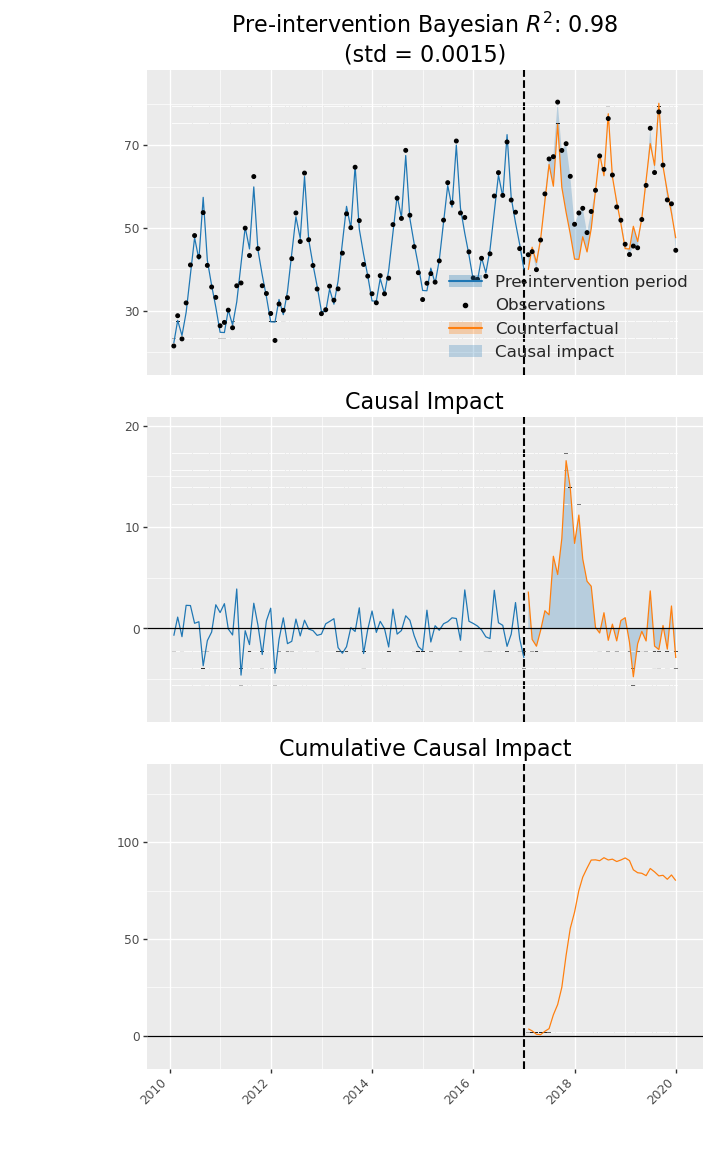
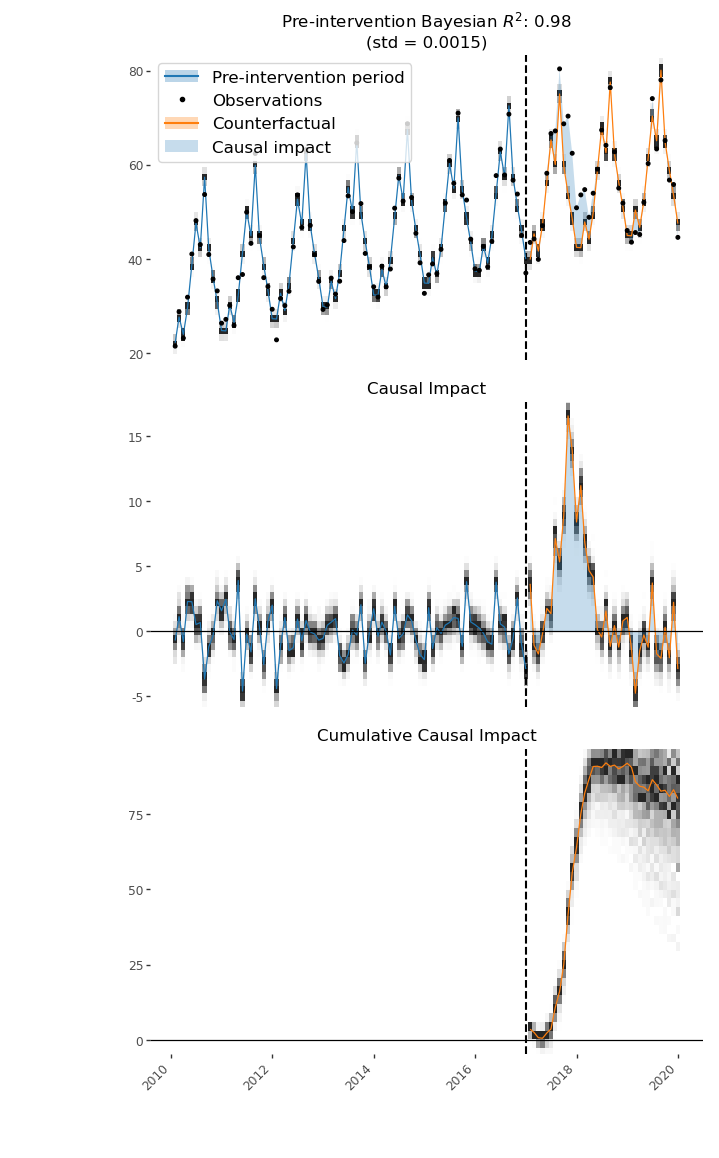
Fix ITS histogram heatmap rendering on plotnine path (#988)
geom_tile used 1-unit-tall cells on the data y-scale, so the density layer looked like thin dashes. Use plotnine for layout and overlay the same matplotlib pcolormesh path as the baseline; keep histogram_tile_df rect bounds for later experiments.

diff --git a/causalpy/experiments/interrupted_time_series.py b/causalpy/experiments/interrupted_time_series.py
@@ -29,17 +29,16 @@ from patsy import build_design_matrices, dmatrices
 from plotnine import (
     aes,
     element_blank,
+    element_rect,
     facet_wrap,
     geom_hline,
     geom_line,
     geom_point,
     geom_ribbon,
-    geom_tile,
     ggplot,
     guides,
     labs,
     scale_color_manual,
-    scale_fill_gradient,
     scale_fill_manual,
     theme,
 )
@@ -50,10 +49,10 @@ from causalpy.custom_exceptions import BadIndexException
 from causalpy.date_utils import _combine_datetime_indices, format_date_axes
 from causalpy.experiments.model_adapter import build_coords
 from causalpy.plot_utils import (
+    _plot_histogram,
     _PlotXYStyle,
     concat_x_y,
     get_hdi_to_df,
-    histogram_tile_df,
     plot_xY,
 )
 from causalpy.pymc_models import LinearRegression, PyMCModel
@@ -644,7 +643,7 @@ class InterruptedTimeSeries(BaseExperiment):
             How posterior uncertainty is rendered. Defaults to ``"ribbon"``
             (mean + credible band). ``"spaghetti"`` draws posterior sample
             lines via plotnine. ``"histogram"`` renders a density heatmap via
-            plotnine ``geom_tile`` (Greys scale).
+            plotnine layout with a matplotlib ``pcolormesh`` density layer.
         ci_kind : {"hdi", "eti"}, optional
             Credible interval type when ``kind="ribbon"``. Defaults to
             ``"hdi"``.
@@ -1167,7 +1166,7 @@ class InterruptedTimeSeries(BaseExperiment):
                 ]
             )
 
-        tile_df = None
+        hist_layers: list[tuple[Any, xr.DataArray, dict[str, Any]]] | None = None
         if kind == "histogram":
 
             def _isel_treated(da):
@@ -1186,20 +1185,15 @@ class InterruptedTimeSeries(BaseExperiment):
                 self.datapost.index,
                 _isel_treated(self.post_impact),
             )
-            tile_df = pd.concat(
-                [
-                    histogram_tile_df(
-                        x_top, mu_top, series="Posterior density", panel=top
-                    ),
-                    histogram_tile_df(x_mid, impact_mid, series="pre", panel=mid),
-                    histogram_tile_df(
-                        self.datapost.index,
-                        _isel_treated(self.post_impact_cumulative),
-                        series="post",
-                        panel=bot,
-                    ),
-                ]
-            )
+            hist_layers = [
+                (x_top, mu_top, {}),
+                (x_mid, impact_mid, {"color": "C0"}),
+                (
+                    self.datapost.index,
+                    _isel_treated(self.post_impact_cumulative),
+                    {"color": "C1"},
+                ),
+            ]
 
         obs = pd.concat(
             [
@@ -1241,8 +1235,6 @@ class InterruptedTimeSeries(BaseExperiment):
         frames = [bands, obs] + ([shade_df] if shade_df is not None else [])
         if spaghetti_df is not None:
             frames.append(spaghetti_df)
-        if tile_df is not None:
-            frames.append(tile_df)
         for frame in frames:
             frame["panel"] = pd.Categorical(
                 frame["panel"], categories=panels, ordered=True
@@ -1268,16 +1260,7 @@ class InterruptedTimeSeries(BaseExperiment):
                 alpha=0.25,
             )
         if kind == "histogram":
-            p = (
-                p
-                + geom_tile(
-                    tile_df,
-                    aes("obs_ind", "y", fill="density"),
-                    alpha=0.85,
-                    show_legend=False,
-                )
-                + geom_line(bands, aes("obs_ind", "mu", color="series"))
-            )
+            p = p + geom_line(bands, aes("obs_ind", "mu", color="series"))
         elif kind == "spaghetti":
             p = (
                 p
@@ -1307,11 +1290,7 @@ class InterruptedTimeSeries(BaseExperiment):
             + geom_hline(zero_df, aes(yintercept="yintercept"), color="black")
             + facet_wrap("panel", ncol=1, scales="free_y")
             + scale_color_manual(values=colors, name="")
-            + (
-                scale_fill_gradient(low="white", high="black", limits=(0, 1))
-                if kind == "histogram"
-                else scale_fill_manual(values=colors, name="")
-            )
+            + scale_fill_manual(values=colors, name="")
             + guides(color="none", fill="none")
             + labs(x="", y="")
             # Panel titles come from ax.set_title after .draw() (matches the
@@ -1324,6 +1303,15 @@ class InterruptedTimeSeries(BaseExperiment):
                 figure_size=figsize,
                 panel_spacing_y=0.06,
                 plot_margin_bottom=0.08,
+                **(
+                    {
+                        "panel_background": element_rect(fill="white"),
+                        "panel_grid_major": element_blank(),
+                        "panel_grid_minor": element_blank(),
+                    }
+                    if kind == "histogram"
+                    else {}
+                ),
             )
         )
 
@@ -1332,6 +1320,17 @@ class InterruptedTimeSeries(BaseExperiment):
         fig = p.draw()
         axes = [a for a in fig.axes if a.get_subplotspec() is not None]
         ax = np.asarray(axes[:3])
+        if hist_layers is not None:
+            hist_kwargs = {"cmap": "Greys", "alpha": 0.85}
+            for panel_ax, (x_vals, y_da, extra) in zip(ax, hist_layers, strict=True):
+                _plot_histogram(
+                    x_vals,
+                    y_da,
+                    panel_ax,
+                    {**hist_kwargs, **extra},
+                    None,
+                    draw_mean=False,
+                )
         for i, a in enumerate(ax):
             a.axvline(
                 x=self.treatment_time,

diff --git a/causalpy/plot_utils.py b/causalpy/plot_utils.py
@@ -368,7 +368,7 @@ def histogram_tile_df(
     y_edges: np.ndarray | None = None,
     n_bins: int = 50,
 ) -> pd.DataFrame:
-    """Long dataframe of posterior density tiles for plotnine ``geom_tile``.
+    """Long dataframe of posterior density rectangles for plotnine ``geom_rect``.
 
     Parameters
     ----------
@@ -388,7 +388,8 @@ def histogram_tile_df(
     Returns
     -------
     pd.DataFrame
-        Columns ``obs_ind``, ``y``, ``density``, ``series``, ``panel``.
+        Columns ``xmin``, ``xmax``, ``ymin``, ``ymax``, ``density``, ``series``,
+        ``panel``.
     """
     x_arr = np.asarray(x)
     if len(x_arr) != Y.sizes[_time_dim_name(Y)]:
@@ -398,14 +399,16 @@ def histogram_tile_df(
         )
         raise ValueError(msg)
     y_edges, hist2d_norm = _histogram_density_grid(Y, y_edges=y_edges, n_bins=n_bins)
-    y_mids = (y_edges[:-1] + y_edges[1:]) / 2
+    x_left, x_right = _x_mesh_edges(x)
     rows: list[dict[str, Any]] = []
-    for t_idx, obs in enumerate(x_arr):
-        for b_idx, y_mid in enumerate(y_mids):
+    for t_idx in range(len(x_arr)):
+        for b_idx in range(len(y_edges) - 1):
             rows.append(
                 {
-                    "obs_ind": obs,
-                    "y": y_mid,
+                    "xmin": x_left[t_idx],
+                    "xmax": x_right[t_idx],
+                    "ymin": float(y_edges[b_idx]),
+                    "ymax": float(y_edges[b_idx + 1]),
                     "density": float(hist2d_norm[b_idx, t_idx]),
                     "series": series,
                     "panel": panel,
@@ -433,6 +436,37 @@ def _x_as_numeric_mesh(
     return np.asarray(x_arr, dtype=float), False
 
 
+def _x_mesh_edges(
+    x: pd.DatetimeIndex | np.ndarray | pd.Index | pd.Series | ExtensionArray,
+) -> tuple[np.ndarray, np.ndarray]:
+    """Left/right x bounds per observation for heatmap cells."""
+    x_num, is_dt = _x_as_numeric_mesh(x)
+    if len(x_num) == 1:
+        x_edges = np.array([x_num[0] - 0.5, x_num[0] + 0.5])
+    else:
+        dx = np.diff(x_num)
+        x_edges = np.zeros(len(x_num) + 1)
+        x_edges[0] = x_num[0] - dx[0] / 2
+        x_edges[-1] = x_num[-1] + dx[-1] / 2
+        x_edges[1:-1] = x_num[:-1] + dx / 2
+    if is_dt:
+        idx = pd.DatetimeIndex(pd.to_datetime(np.asarray(x)))
+        x_left = pd.DatetimeIndex(
+            [pd.Timestamp(t) for t in mdates.num2date(x_edges[:-1])]
+        )
+        x_right = pd.DatetimeIndex(
+            [pd.Timestamp(t) for t in mdates.num2date(x_edges[1:])]
+        )
+        if idx.tz is None:
+            x_left = x_left.tz_localize(None)
+            x_right = x_right.tz_localize(None)
+        else:
+            x_left = x_left.tz_convert(idx.tz)
+            x_right = x_right.tz_convert(idx.tz)
+        return np.asarray(x_left), np.asarray(x_right)
+    return x_edges[:-1], x_edges[1:]
+
+
 def _plot_histogram(
     x: pd.DatetimeIndex | np.ndarray | pd.Index | pd.Series | ExtensionArray,
     Y: xr.DataArray,
@@ -440,6 +474,8 @@ def _plot_histogram(
     plot_hdi_kwargs: dict[str, Any] | None,
     label: str | None,
     y_edges: np.ndarray | None = None,
+    *,
+    draw_mean: bool = True,
 ) -> tuple[list[Line2D], None]:
     """Plot histogram visualization of the posterior as a 2D heatmap.
 
@@ -461,15 +497,14 @@ def _plot_histogram(
 
     y_edges, hist2d_norm = _histogram_density_grid(Y, y_edges=y_edges)
 
+    x_left, x_right = _x_mesh_edges(x)
     x_num, is_dt = _x_as_numeric_mesh(x)
-    if len(x_num) == 1:
-        x_edges = np.array([x_num[0] - 0.5, x_num[0] + 0.5])
+    if is_dt:
+        x_edges = np.concatenate(
+            [[mdates.date2num(x_left[0])], mdates.date2num(x_right)]
+        )
     else:
-        dx = np.diff(x_num)
-        x_edges = np.zeros(len(x_num) + 1)
-        x_edges[0] = x_num[0] - dx[0] / 2
-        x_edges[-1] = x_num[-1] + dx[-1] / 2
-        x_edges[1:-1] = x_num[:-1] + dx / 2
+        x_edges = np.concatenate([[x_left[0]], x_right])
 
     cmap = plot_hdi_kwargs.get("cmap", "Greys")
     alpha = float(plot_hdi_kwargs.get("alpha", 0.85))
@@ -484,9 +519,13 @@ def _plot_histogram(
         vmax=1.0,
         shading="flat",
         alpha=alpha,
+        zorder=0.5,
     )
     if is_dt:
         ax.xaxis_date()
+
+    if not draw_mean:
+        return [], None
 
     mean_y = Y.mean(dim=["chain", "draw"])
     mean_vals = np.asarray(mean_y.values, dtype=float).ravel()

diff --git a/causalpy/tests/test_plot_utils.py b/causalpy/tests/test_plot_utils.py
@@ -565,7 +565,15 @@ def test_histogram_tile_df_matches_density_grid(synthetic_posterior_data):
     tiles = histogram_tile_df(x, Y, series="s", panel="p")
     assert tiles["density"].max() <= 1.0 + 1e-12
     assert len(tiles) == grid.size
-    assert set(tiles.columns) >= {"obs_ind", "y", "density", "series", "panel"}
+    assert set(tiles.columns) >= {
+        "xmin",
+        "xmax",
+        "ymin",
+        "ymax",
+        "density",
+        "series",
+        "panel",
+    }
 
 
 @pytest.mark.integration